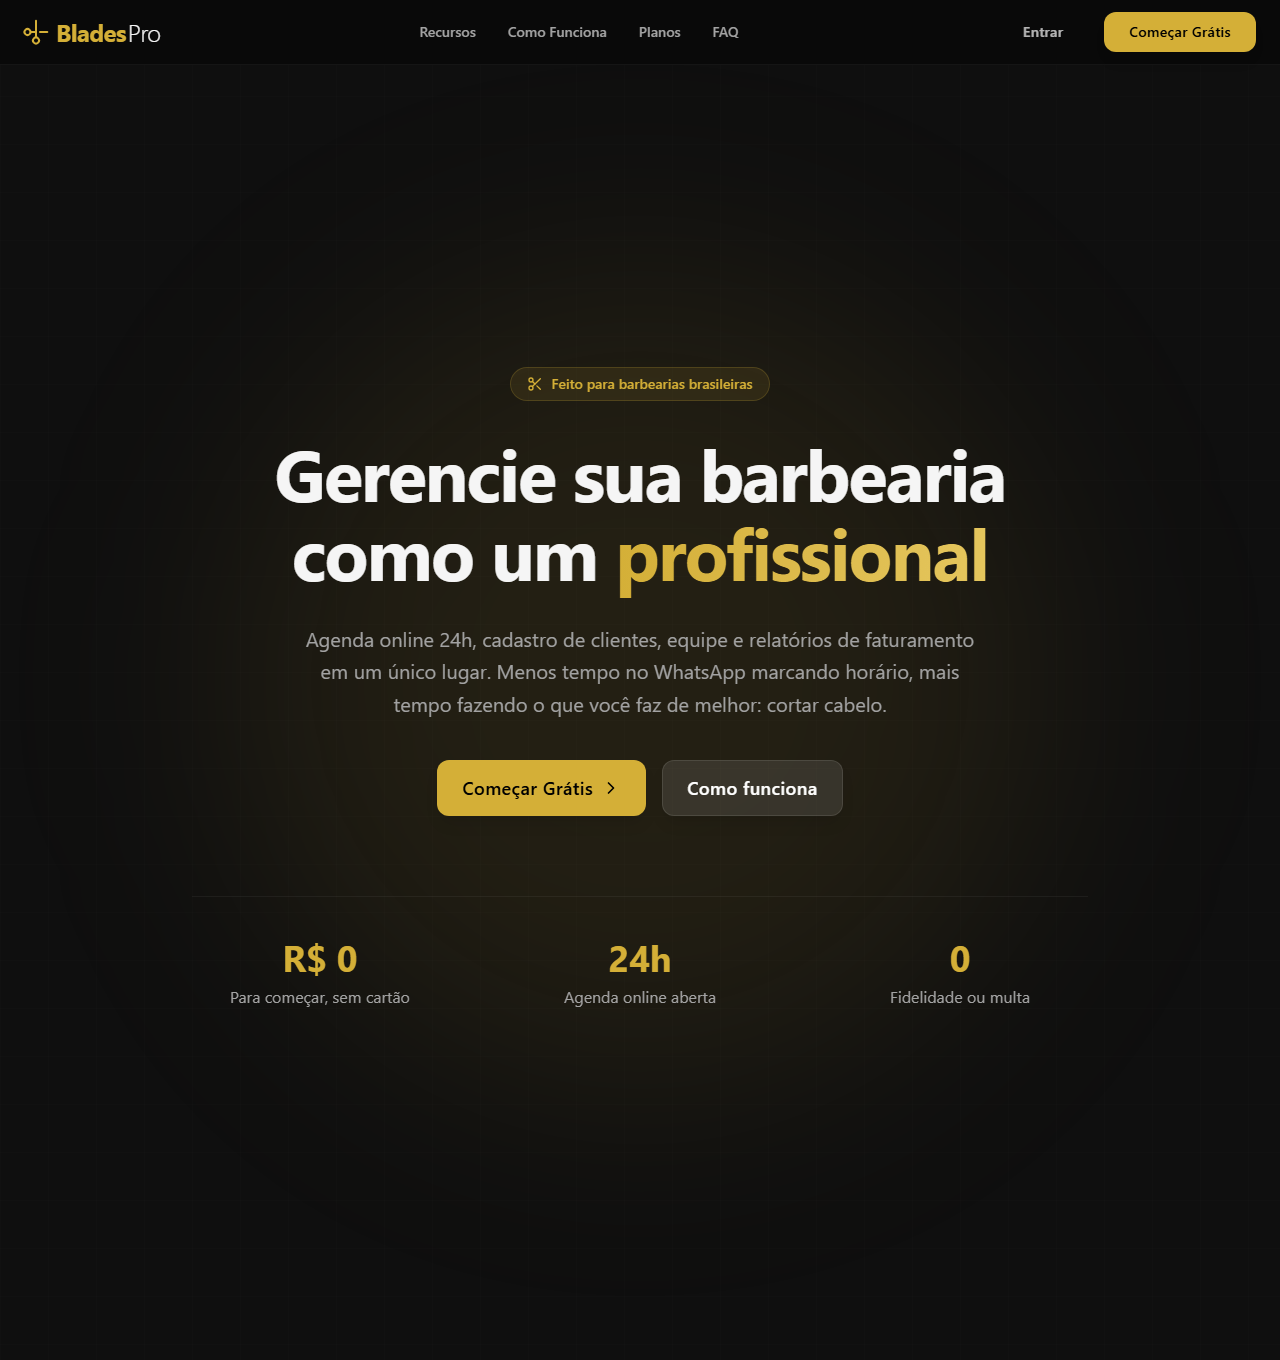
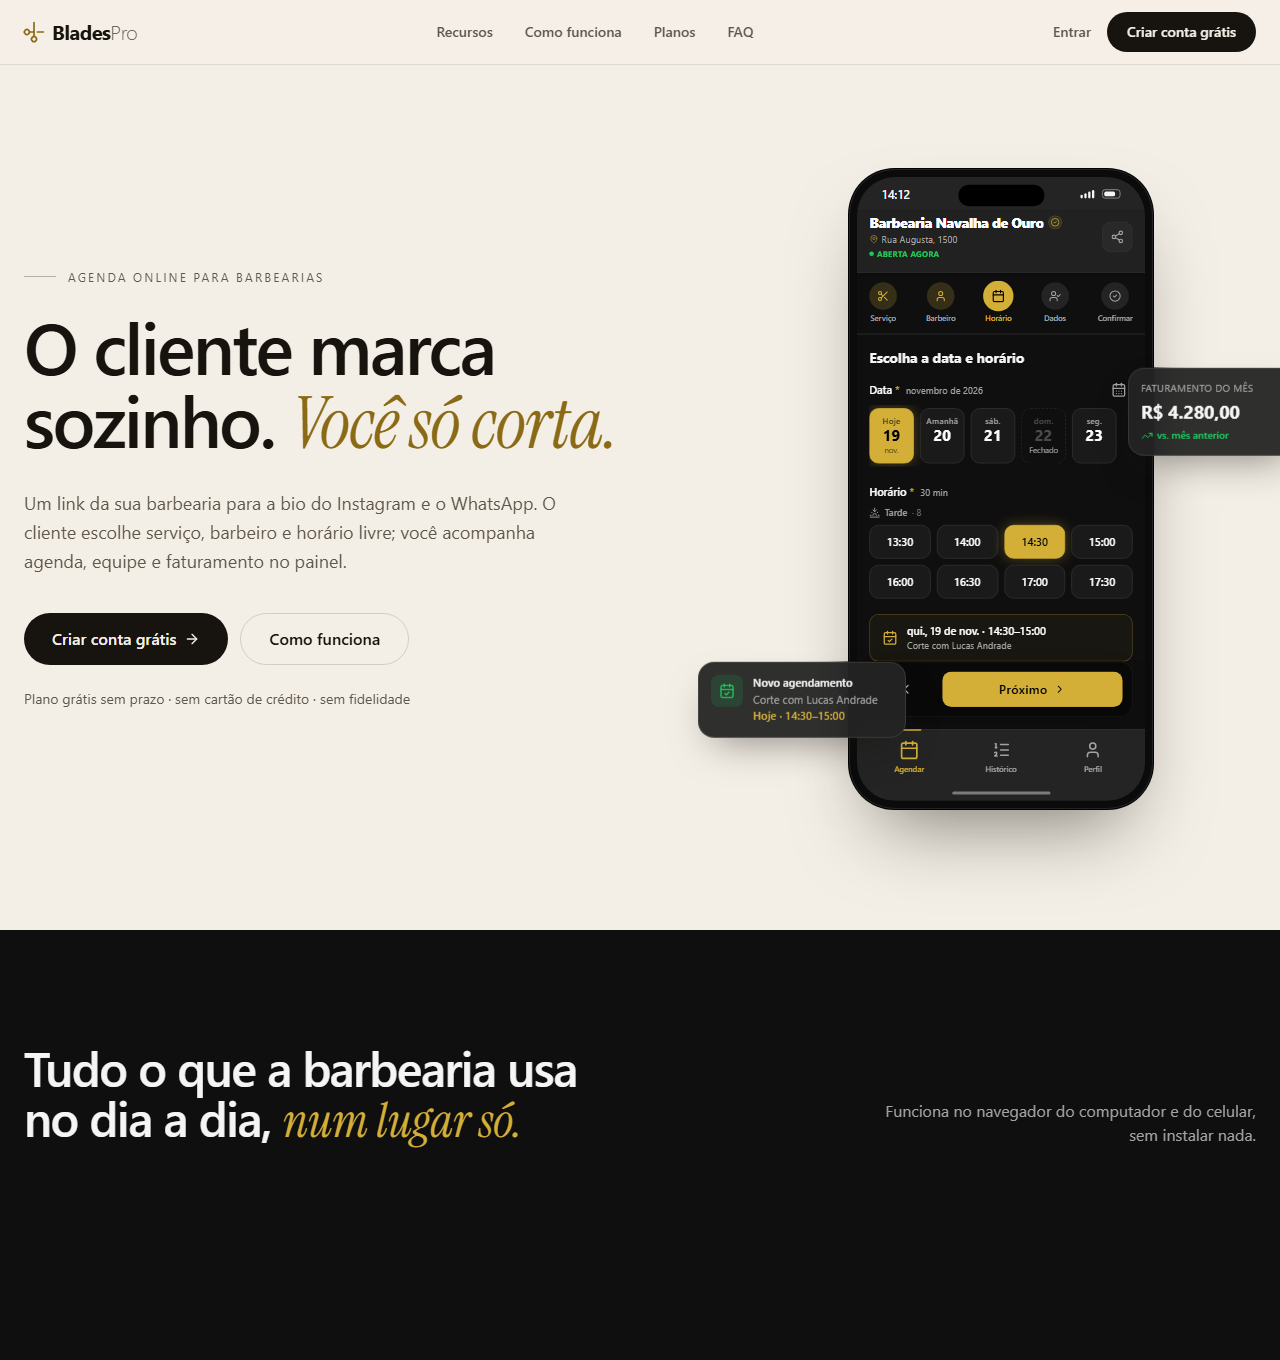
chore: update BladesPro screenshot with the new homepage
- Recapture bladespro.com.br homepage (1280x1360)
- Update image alt text to the new headline
- Add ?v=2 to the image URL to bust the cache

diff --git a/index.html b/index.html
@@ -249,8 +249,8 @@
                                     <span></span><span></span><span></span>
                                     <span class="browser-url">bladespro.com.br</span>
                                 </div>
-                                <img src="assets/img/projetos/bladespro.png" width="1280" height="1360" loading="lazy"
-                                    decoding="async" alt="Página inicial do BladesPro: Gerencie sua barbearia como um profissional" />
+                                <img src="assets/img/projetos/bladespro.png?v=2" width="1280" height="1360" loading="lazy"
+                                    decoding="async" alt="Página inicial do BladesPro: o cliente marca sozinho, você só corta" />
                             </div>
                         </a>
 
